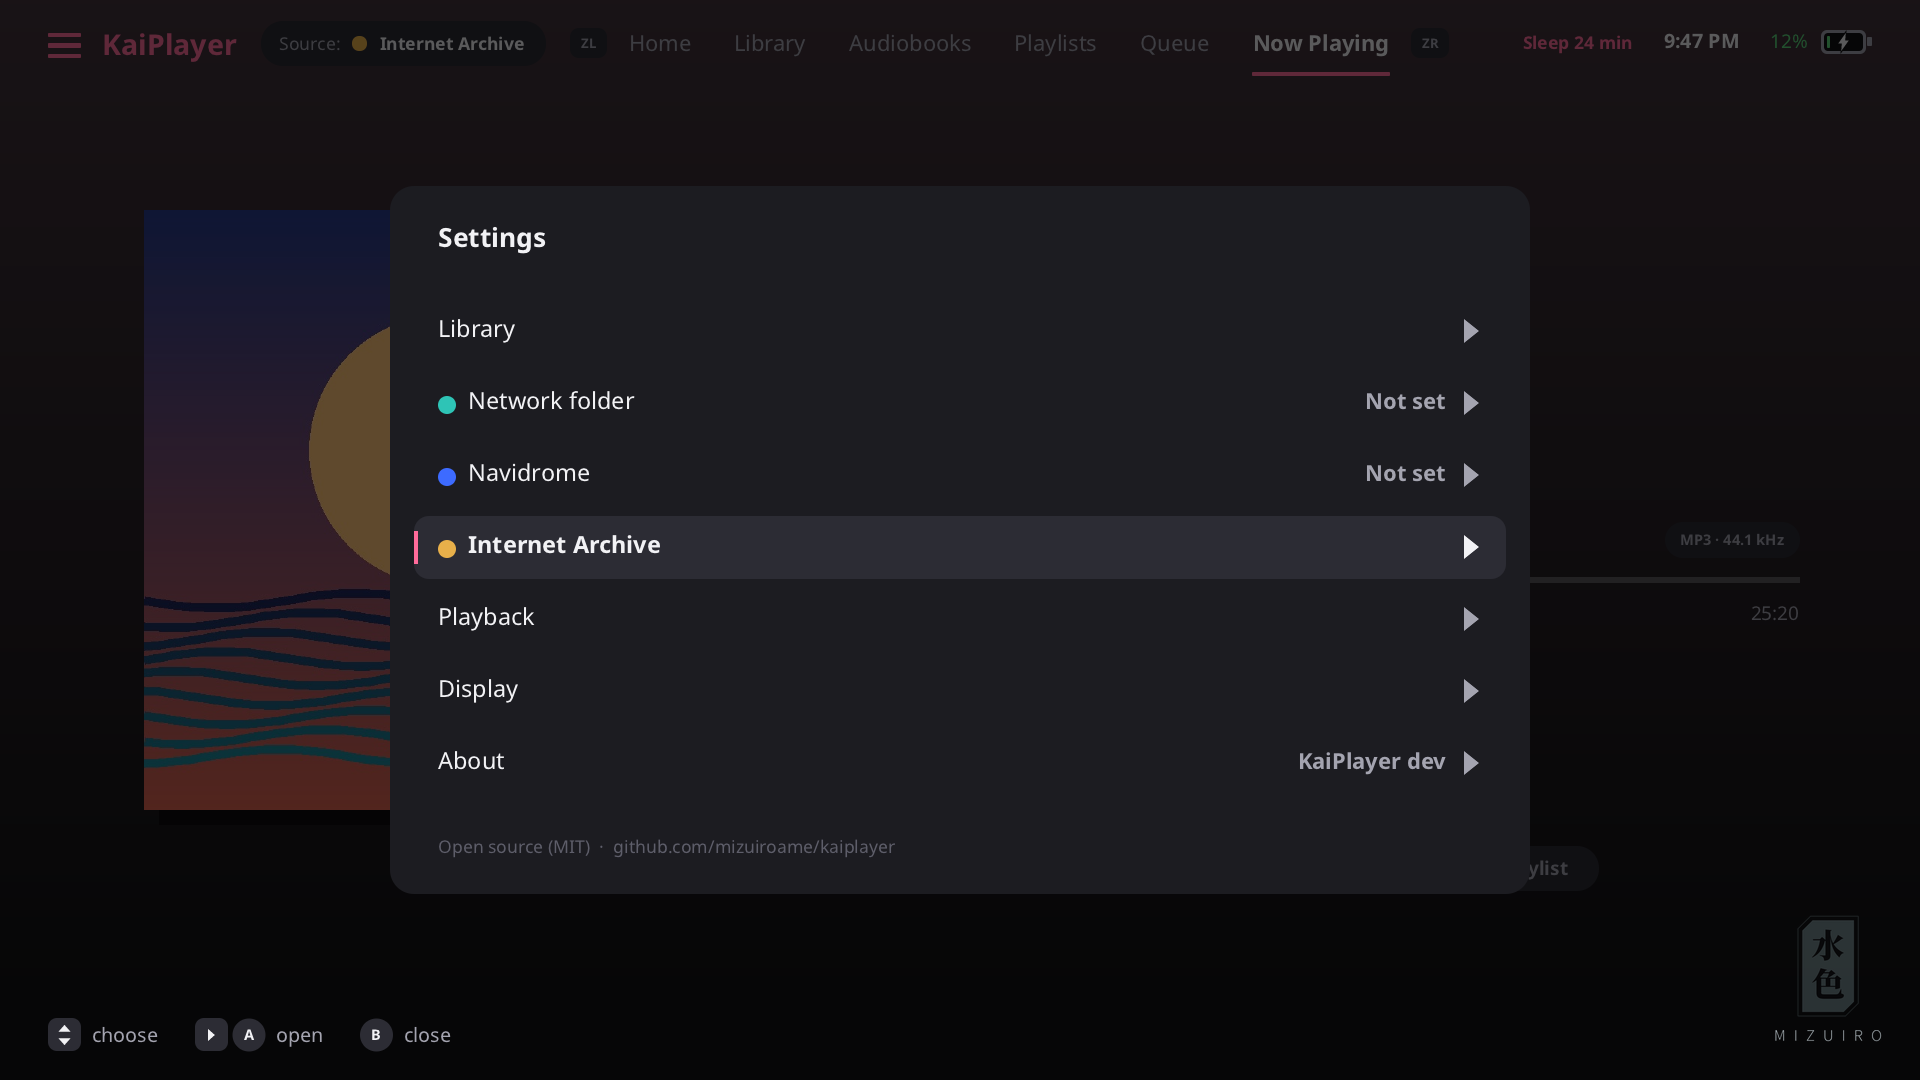
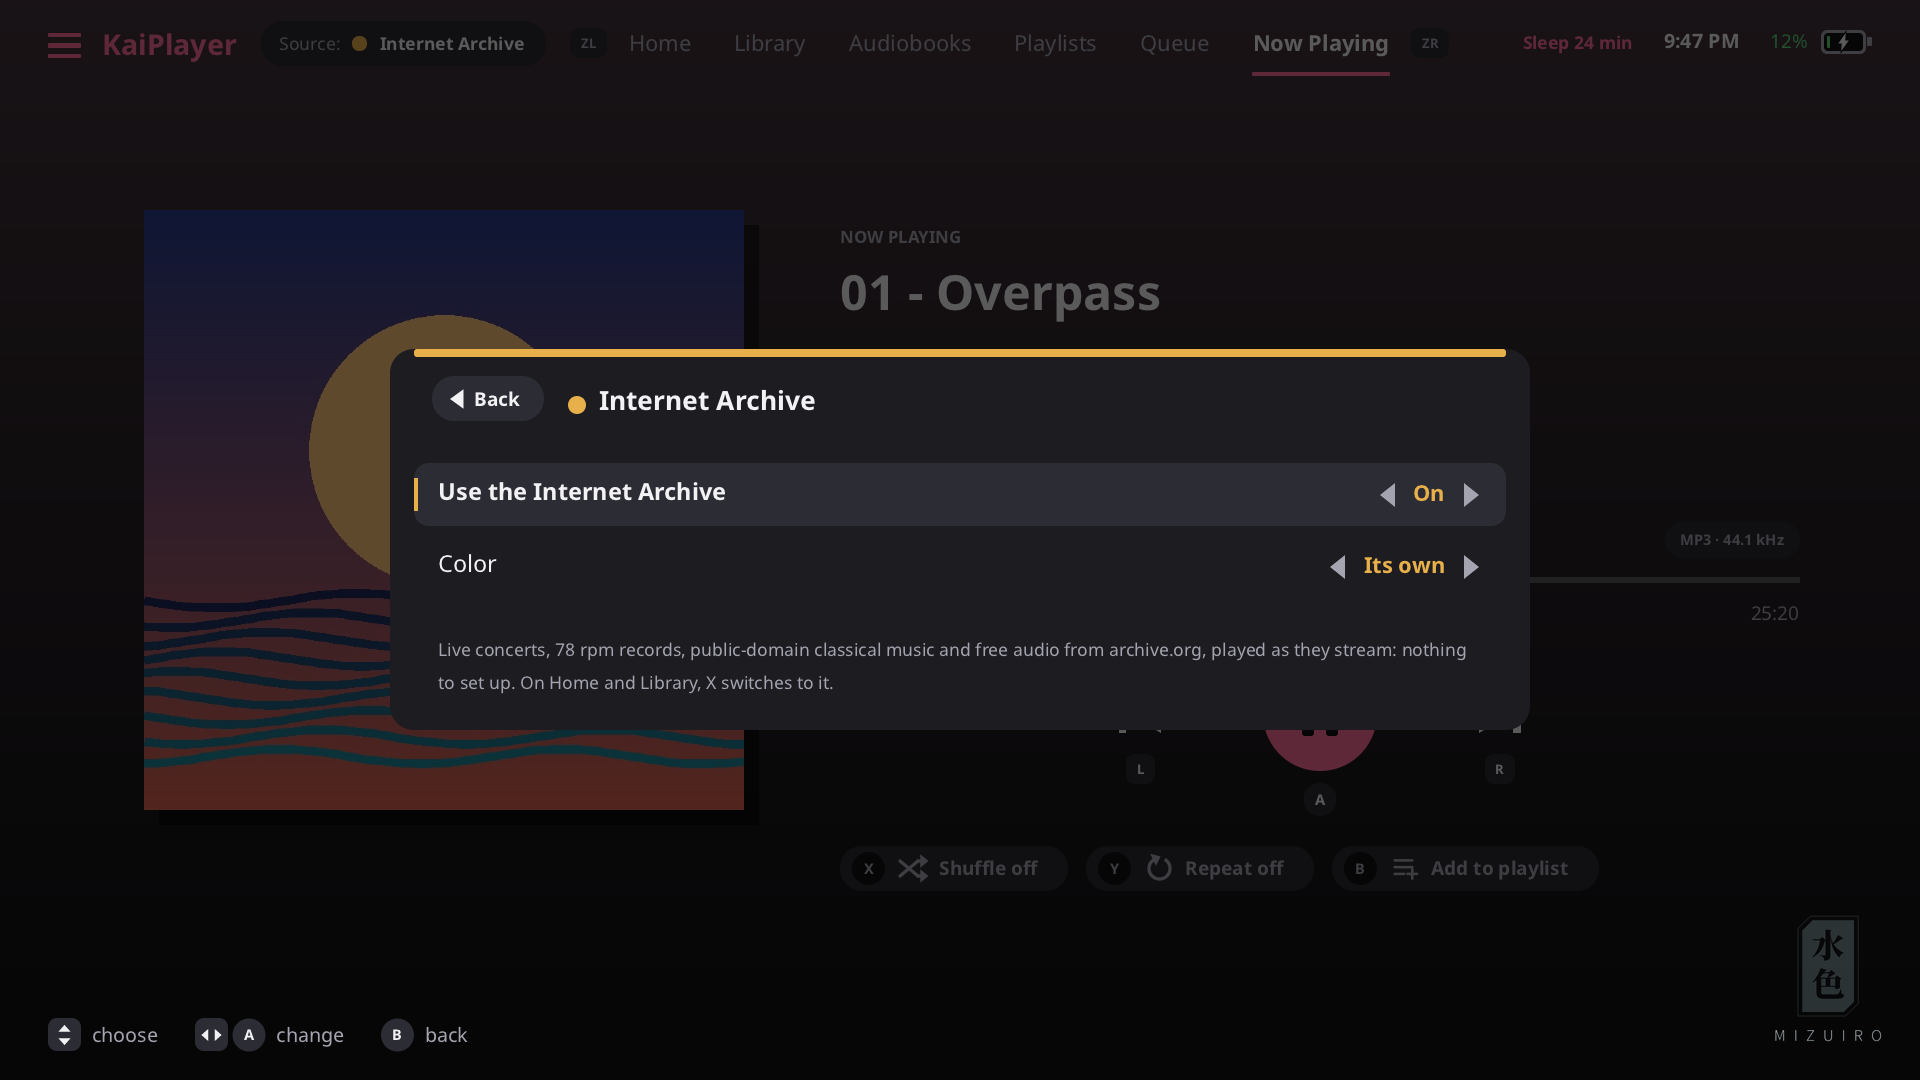
docs: turning the Internet Archive off

diff --git a/docs/internet-archive.md b/docs/internet-archive.md
@@ -19,9 +19,9 @@ account and no key. The Archive is best for:
 |----------------|-------------------|
 | ![The Internet Archive's first page](screenshots/internet_archive.png) | ![A concert's songs](screenshots/internet_archive_concert.png) |
 
-| Home while it's the source | Its place in Settings |
+| Home while it's the source | Its Settings page |
 |----------------------------|-----------------------|
-| ![Home with the Internet Archive as the source](screenshots/internet_archive_home.png) | ![Settings with the Internet Archive's page](screenshots/internet_archive_settings.png) |
+| ![Home with the Internet Archive as the source](screenshots/internet_archive_home.png) | ![The Internet Archive's Settings page: on or off, and its color](screenshots/internet_archive_settings.png) |
 
 ## Going to it
 
@@ -46,6 +46,21 @@ source:
 The other sources' libraries aren't shown while the Archive is, and the
 Archive doesn't show inside them. **+ → Update the library** isn't offered for
 it: each page asks the Archive when it opens.
+
+## Turning it off
+
+**+ → Settings → Internet Archive → Use the Internet Archive** is **On** by
+default. Turned **Off**:
+
+- it leaves the sources: **X**, the pill and the + menu go from Navidrome (or
+  the network folder, or the card) back to the SD card, and if it was the
+  source shown, the SD card's library shows;
+- nothing connects to archive.org, not even when KaiPlayer starts;
+- its songs in a playlist or the queue don't play, and say **The Internet
+  Archive is turned off in Settings: its songs don't play.** The main
+  Settings page shows **Off** on its row.
+
+Turn it **On** again on the same page.
 
 ## Its pages
 

diff --git a/STREAMING-STATUS.md b/STREAMING-STATUS.md
@@ -16,6 +16,12 @@ what's left, so the work can be picked up again. Not for the release notes.
   **+ → Go to the Internet Archive**), with its own color (amber, changeable as the others'), and not a
   row in Library (it showed inside the card's and Navidrome's libraries). Its Settings page has its
   Color only, as the per-source color convention asks. "Show 50 more" added (up to 500).
+- **2026-11-27, owner (after a console test: works well): an On/Off switch**, "Use the Internet
+  Archive", On by default, on its Settings page before Color (the other sources have no switch: they
+  are on once set up, off when forgotten; the Archive's page is where its settings are). Off: out of
+  the cycle and the + menu, the card's library if it was shown, nothing connects to archive.org
+  (streamfile.c refuses to open, the network isn't started for it), and its songs say "The Internet
+  Archive is turned off in Settings: its songs don't play." (when asked to play, and as each fails).
 
 ## What the Internet Archive's terms say (read 2026-11-26)
 
@@ -95,6 +101,7 @@ None open.
 - [x] Preview scenes (made-up content).
 - [x] Docs: docs/internet-archive.md, README, library, controls, limitations, legal, building.
 - [x] The Archive as a source (2026-11-27): pill, X, + menu, its color and Settings page, Home, "more".
+- [x] Its On/Off switch (2026-11-27).
 - [ ] Console test (owner).
 - Left for later: a cover for items without one; browsing the Archive's collections beyond these six
   rows.

diff --git a/docs/settings.md b/docs/settings.md
@@ -28,7 +28,8 @@ folder**, **Navidrome**, **Internet Archive**, **Playback**, **Display** and
 | Navidrome | Test the connection | **A** tries it, and says which server answered and how many songs it has, or what went wrong |
 | Navidrome | Certificate check | On (default), or Off for an `https://` server with its own certificate |
 | Navidrome | Forget this server | **A** removes the address and the sign-in |
-| Internet Archive | Color | Its own (amber, default), or one of the accent colors. Nothing else to set up: see [Internet Archive](internet-archive.md) |
+| Internet Archive | Use the Internet Archive | On (default), or Off: it leaves the sources and nothing connects to it. See [Internet Archive](internet-archive.md) |
+| Internet Archive | Color | Its own (amber, default), or one of the accent colors |
 | Playback | Sleep timer | Off, or any number of minutes up to 600 |
 | Playback | Resume where you left off | Keep playing (default), Paused or Off |
 | Playback | Screen off while playing | Never (default), or after 1, 2, 5, 10 or 30 minutes without input |

diff --git a/docs/library.md b/docs/library.md
@@ -10,7 +10,8 @@ card's library is the whole card, and the pill says **SD card (whole card)**.
 
 The library can also come from a [network folder](network-folder.md) or a
 [Navidrome server](navidrome.md), and the music from the
-[Internet Archive](internet-archive.md), which needs nothing set up. The pill
+[Internet Archive](internet-archive.md), which needs nothing set up (it can be
+turned off in Settings). The pill
 next to KaiPlayer's name says which is shown. **X** on Home or on Library's
 first page, a tap on the pill, or **+ → Go to the …** goes to the next one:
 **SD card**, **network folder**, **Navidrome** (those set up), **Internet
